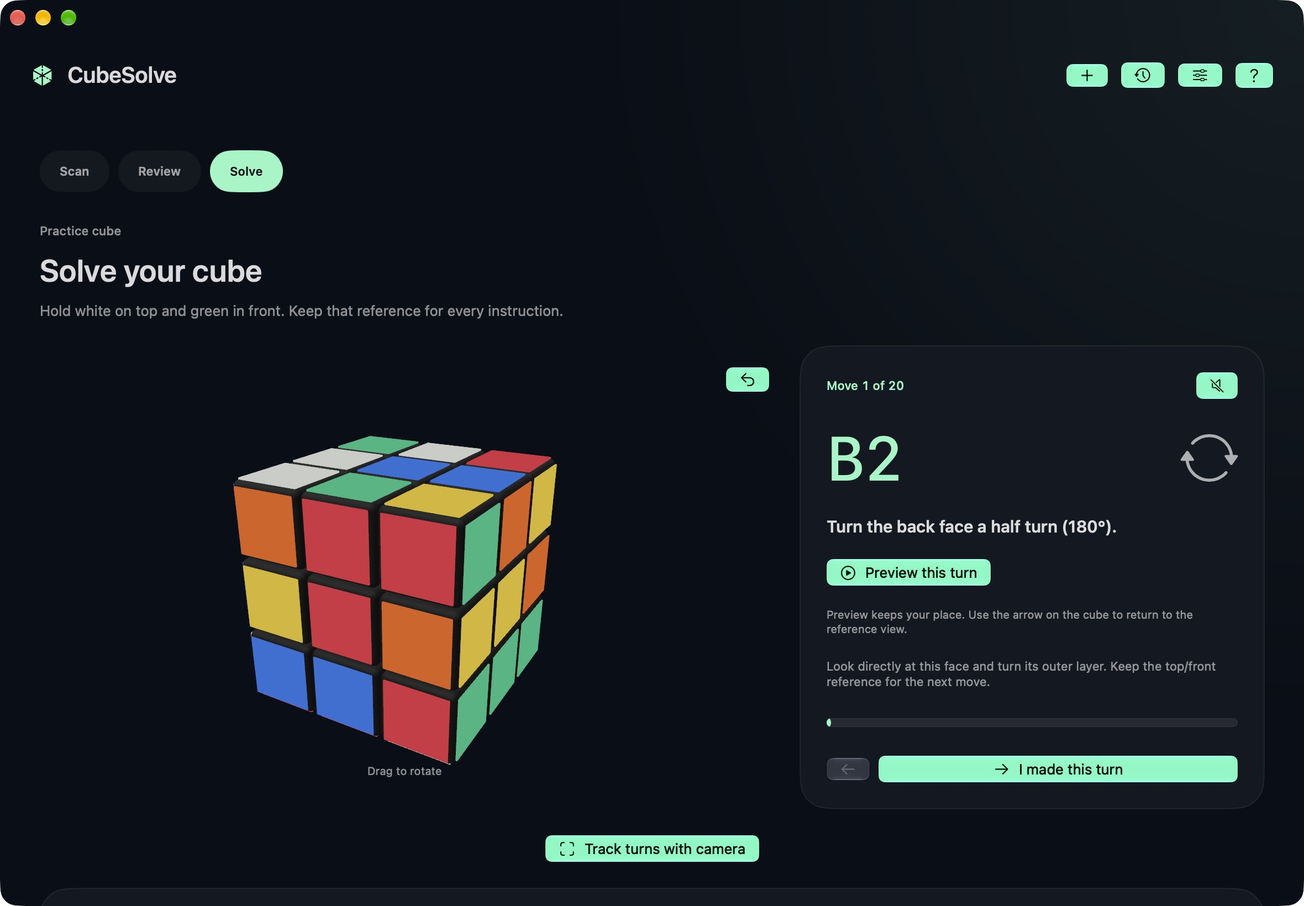
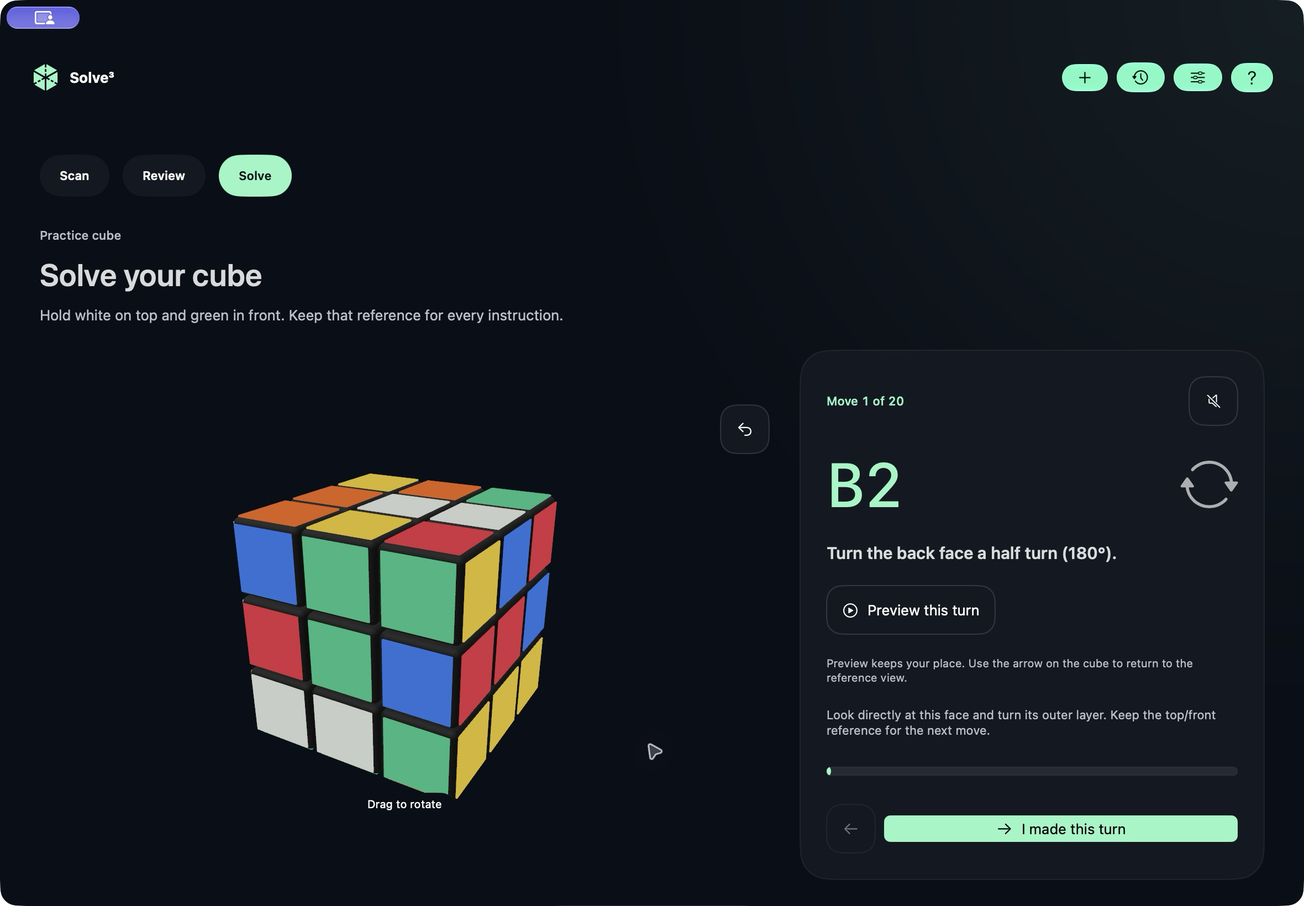
Polish Solve³ branding and replace release screenshots

diff --git a/index.html b/index.html
@@ -1,1 +1,1 @@
-<!doctype html><html lang="en"><head><meta charset="utf-8"><meta name="viewport" content="width=device-width,initial-scale=1"><title>Solve³</title><meta name="description" content="Scan six faces. Review your colors. Follow one clear turn at a time. Native cube guidance for iPhone, iPad and Mac."><link rel="stylesheet" href="marketing.css?v=2"></head><body><header><a class="brand" href="index.html"><svg aria-hidden="true" viewBox="0 0 40 42"><path d="M20 1 38 11v20L20 41 2 31V11Z" fill="#92f7c5"/><path d="m2 11 18 10 18-10M20 21v20M20 1v20M2 31l18-10 18 10" fill="none" stroke="#0a121b" stroke-width="2"/></svg><span>Solve³ <small>by FreeRange Labs</small></span></a><nav aria-label="Main"><a href="#how">How it works</a><a href="support.html">Support</a><a href="privacy.html">Privacy</a></nav></header><main><section class="hero"><div class="hero-copy"><p class="eyebrow">For the cube in your hands.</p><h1>One clear turn.<br><em>Then the next.</em></h1><p class="intro">A scrambled cube doesn’t need to stay a mystery. Scan six faces, check the colors, and follow a clear 3D guide at your own pace.</p><a class="button" href="#how">See how it works <span aria-hidden="true">↘</span></a><p class="availability">iPhone, iPad &amp; Mac · $4.99 USD one-time purchase at launch · App Store release in preparation</p><div class="promise"><span>On-device processing</span><span>No ads or account</span><span>Your pace</span></div></div><div class="hero-art"><div class="orbit orbit-one"></div><div class="orbit orbit-two"></div><div class="notation" aria-hidden="true">R2 <span>U′</span> F</div><figure class="phone"><img src="assets/iphone-guide.png" alt="Actual iPhone app: a 3D cube, move R2, plain-language half-turn instruction and the I made this turn control." width="680" height="1500"><figcaption>Actual app interface</figcaption></figure><div class="turn-chip"><span class="turn-icon" aria-hidden="true">↻</span><div><strong>Preview the layer.</strong><small>Keep your place in the solve.</small></div></div></div></section><section id="how" class="workflow"><div class="section-heading"><p class="eyebrow">A simple rhythm</p><h2>From scrambled<br>to understandable.</h2><p>Every step gives you a chance to check, correct and continue.</p></div><div class="steps"><article><span class="step">01</span><div class="scan-graphic" aria-hidden="true"><i></i><div class="tiles"><b></b><b></b><b></b><b></b><b></b><b></b><b></b><b></b><b></b></div></div><h3>Scan six faces.</h3><p>Automatic face detection finds the corners. Capture each face with the orientation labels as your guide.</p></article><article><span class="step">02</span><div class="swatches" aria-hidden="true"><b></b><b></b><b></b><b></b><b></b><b></b></div><h3>Make the colors yours.</h3><p>Check the suggested stickers. Personal calibration learns your six center colors; manual corrections keep you in control.</p></article><article><span class="step">03</span><div class="move-graphic" aria-hidden="true"><strong>R2</strong><span>↻</span></div><h3>Follow one turn.</h3><p>Preview the moving layer, read the instruction, then advance after making the physical turn. Backtracking is always available.</p></article></div></section><section class="desktop"><div><p class="eyebrow">Room to see the whole solve</p><h2>Just as thoughtful<br>on your Mac.</h2><p>A native desktop layout pairs the cube with its next instruction. Drag to inspect, preview a layer, and keep the sequence close.</p><p class="fine">Saved solutions stay locally on each device. Cross-device history sync is not included.</p></div><figure class="mac"><div class="mac-display"><img src="assets/mac-guide.png" alt="Actual Mac app with a large practice cube beside the B2 instruction and Preview this turn button." width="2360" height="1640"></div><div class="mac-stand"></div><figcaption>Native macOS app · practice guide</figcaption></figure></section><section class="details"><div class="calibration"><img src="assets/calibration.png" alt="iPhone calibration settings identify the white center as missing and provide separate recapture controls." width="680" height="1500"></div><div><p class="eyebrow">A little variation is normal</p><h2>Your cube.<br>Your colors.</h2><p>Different cube palettes and lighting can change how stickers look. Capture the six center colors to calibrate, and recapture a missing sample without replacing your current solution.</p><ul><li>Editable sticker grids</li><li>Optional spoken instructions</li><li>Local solution history and text sharing</li><li>Complete orientation, notation and recovery help</li></ul><a class="text-link" href="support.html">Explore the support guide →</a></div></section><section class="closing"><p class="eyebrow">Clear expectations. Better solves.</p><h2>Built for six-color 3×3 cubes.</h2><p>One photo cannot reveal hidden stickers: capture all six faces. Glare and difficult lighting may need a correction or retake. Solutions are replay-verified, not guaranteed shortest. The virtual cube shows a predicted state; it is not an AR overlay anchored to your physical cube.</p><a class="button" href="mailto:FreeRangeLabs@drumnbus.com">Contact FreeRange Labs</a></section></main><footer><div><strong>Solve³</strong><p>© 2026 FreeRange Labs</p></div><nav aria-label="Footer"><a href="support.html">Support</a><a href="privacy.html">Privacy policy</a><a href="mailto:FreeRangeLabs@drumnbus.com">Email us</a></nav><p class="legal">Independent product. Not affiliated with or endorsed by the makers of Rubik’s or GAN cubes. Screenshots show the actual app; device presentations are illustrative.</p></footer></body></html>
+<!doctype html><html lang="en"><head><meta charset="utf-8"><meta name="viewport" content="width=device-width,initial-scale=1"><title>Solve³</title><meta name="description" content="Scan six faces. Review your colors. Follow one clear turn at a time. Native cube guidance for iPhone, iPad and Mac."><link rel="stylesheet" href="marketing.css?v=6"><link rel="icon" href="assets/app-icon.png"><link rel="apple-touch-icon" href="assets/app-icon.png"></head><body><header><a class="brand" href="index.html"><img class="brand-icon" src="assets/app-icon.png" width="40" height="40" alt=""><span>Solve³ <small>by FreeRange Labs</small></span></a><nav aria-label="Main"><a href="#how">How it works</a><a href="support.html">Support</a><a href="privacy.html">Privacy</a></nav></header><main><section class="hero"><div class="hero-copy"><p class="eyebrow">For the cube in your hands.</p><h1>One clear turn.<br><em>Then the next.</em></h1><p class="intro">A scrambled cube doesn’t need to stay a mystery. Scan six faces, check the colors, and follow a clear 3D guide at your own pace.</p><a class="button" href="#how">See how it works <span aria-hidden="true">↘</span></a><p class="availability">iPhone, iPad &amp; Mac · $4.99 USD one-time purchase at launch · App Store release in preparation</p><div class="promise"><span>On-device processing</span><span>No ads or account</span><span>Your pace</span></div></div><div class="hero-art"><div class="orbit orbit-one"></div><div class="orbit orbit-two"></div><div class="notation" aria-hidden="true">R2 <span>U′</span> F</div><figure class="phone"><img src="assets/iphone-guide.png?v=6" alt="Actual iPhone app: a 3D practice cube, plain-language turn instruction and the I made this turn control." width="1320" height="2868"><figcaption>Actual app interface</figcaption></figure><div class="turn-chip"><span class="turn-icon" aria-hidden="true">↻</span><div><strong>Preview the layer.</strong><small>Keep your place in the solve.</small></div></div></div></section><section id="how" class="workflow"><div class="section-heading"><p class="eyebrow">A simple rhythm</p><h2>From scrambled<br>to understandable.</h2><p>Every step gives you a chance to check, correct and continue.</p></div><div class="steps"><article><span class="step">01</span><div class="scan-graphic" aria-hidden="true"><i></i><div class="tiles"><b></b><b></b><b></b><b></b><b></b><b></b><b></b><b></b><b></b></div></div><h3>Scan six faces.</h3><p>Automatic face detection finds the corners. Capture each face with the orientation labels as your guide.</p></article><article><span class="step">02</span><div class="swatches" aria-hidden="true"><b></b><b></b><b></b><b></b><b></b><b></b></div><h3>Make the colors yours.</h3><p>Check the suggested stickers. Personal calibration learns your six center colors; manual corrections keep you in control.</p></article><article><span class="step">03</span><div class="move-graphic" aria-hidden="true"><strong>R2</strong><span>↻</span></div><h3>Follow one turn.</h3><p>Preview the moving layer, read the instruction, then advance after making the physical turn. Backtracking is always available.</p></article></div></section><section class="desktop"><div><p class="eyebrow">Room to see the whole solve</p><h2>Just as thoughtful<br>on your Mac.</h2><p>A native desktop layout pairs the cube with its next instruction. Drag to inspect, preview a layer, and keep the sequence close.</p><p class="fine">Saved solutions stay locally on each device. Cross-device history sync is not included.</p></div><figure class="mac"><div class="mac-display"><img src="assets/mac-guide.png?v=6" alt="Actual Mac app with a large practice cube beside the B2 instruction and Preview this turn button." width="2360" height="1640"></div><div class="mac-stand"></div><figcaption>Native macOS app · practice guide</figcaption></figure></section><section class="details"><div class="calibration"><img src="assets/calibration.png?v=6" alt="iPhone calibration settings provide an individual capture control for each of the six center colors." width="1320" height="2868"></div><div><p class="eyebrow">A little variation is normal</p><h2>Your cube.<br>Your colors.</h2><p>Different cube palettes and lighting can change how stickers look. Capture the six center colors to calibrate, and recapture a missing sample without replacing your current solution.</p><ul><li>Editable sticker grids</li><li>Optional spoken instructions</li><li>Local solution history and text sharing</li><li>Complete orientation, notation and recovery help</li></ul><a class="text-link" href="support.html">Explore the support guide →</a></div></section><section class="closing"><p class="eyebrow">Clear expectations. Better solves.</p><h2>Built for six-color 3×3 cubes.</h2><p>One photo cannot reveal hidden stickers: capture all six faces. Glare and difficult lighting may need a correction or retake. Solutions are replay-verified, not guaranteed shortest. The virtual cube shows a predicted state; it is not an AR overlay anchored to your physical cube.</p><a class="button" href="mailto:FreeRangeLabs@drumnbus.com">Contact FreeRange Labs</a></section></main><footer><div><strong>Solve³</strong><p>© 2026 FreeRange Labs</p></div><nav aria-label="Footer"><a href="support.html">Support</a><a href="privacy.html">Privacy policy</a><a href="mailto:FreeRangeLabs@drumnbus.com">Email us</a></nav><p class="legal">Independent product. Not affiliated with or endorsed by the makers of Rubik’s or GAN cubes. Screenshots show the actual app; device presentations are illustrative.</p></footer></body></html>

diff --git a/support.html b/support.html
@@ -1,1 +1,1 @@
-<!doctype html><html lang="en"><head><meta charset="utf-8"><meta name="viewport" content="width=device-width,initial-scale=1"><title>Support · Solve³</title><link rel="stylesheet" href="style.css"><meta name="description" content="Solve³: on-device 3×3 cube guidance, support and privacy."></head><body><main><nav aria-label="Main"><a href="index.html">Solve³</a><a href="support.html">Support</a><a href="privacy.html">Privacy</a></nav><h1>Every turn, explained.</h1><p>For support, contact FreeRangeLabs@drumnbus.com.</p><h2>Start a solve</h2><p>Use a six-color 3×3 cube. Open Scan and capture one face at a time. Follow the face-above label to keep the grid upright. Turn the whole cube between captures without twisting any layer. One picture cannot reveal all 54 stickers. Review every suggested sticker and confirm all six faces, then solve.</p><h2>Camera or colors need help</h2><p>Use even light without flash, keep fingers off stickers and show a complete face. Automatic corners can be adjusted manually when needed. Confirm the actual center color if the model misreads it. Rotate the grid only when the photo’s orientation is wrong. Camera access can be enabled in iPhone Settings or Mac System Settings → Privacy &amp; Security → Camera. Imported photos and manual entry work without camera permission.</p><p>Cube settings → Color calibration lists all six center samples. Capture a named missing center without changing the current cube or guide. Calibration activates after all six usable samples exist. Reset or recapture when changing cubes or lighting. A dark or uneven patch requires a retake. Previously missing samples cannot be recreated from sticker labels; take a fresh photo.</p><h2>Follow the guide</h2><p>Keep the selected top/front reference. A plain letter is clockwise as viewed directly at that face; an apostrophe reverses it; 2 means a half turn. Preview shows the moving layer without advancing. Make the physical move, then select I made this turn. Use Back only after undoing the physical turn when necessary. Dragging the virtual cube does not move your actual cube or advance the guide. Reset the reference view with the arrow on the cube.</p><p>The virtual cube is a predicted state, not a physical AR overlay. Camera turn tracking requires stable, upright before/after views and can decline to confirm ambiguous faces. If it waits, improve lighting and calibration or advance manually after checking the turn. If you lose track, scan the cube again as it is now.</p><h2>Invalid cube state</h2><p>Check color counts, orientation, duplicate pieces and all six confirmed faces. If scans are correct, a twisted corner, flipped edge or swapped pieces can make a cube physically unreachable. The solver does not silently change your colors.</p><h2>Saved work and limits</h2><p>History and calibration stay on each device. Raw photos are not retained. Up to 30 solutions are stored locally. No iCloud history sync is included. Supported puzzles are six-color 3×3 cubes; other sizes, mirror cubes and picture-center orientation are not supported. Solutions are verified but not guaranteed shortest.</p><h2>Contact checklist</h2><p>Provide app version, device and OS, workflow step, lighting and whether you calibrated. Describe what you expected and what occurred. Only attach cube-only pictures you choose to share; avoid faces, addresses or other personal information. Contact FreeRangeLabs@drumnbus.com.</p><footer>© 2026 FreeRange Labs · <a href="mailto:FreeRangeLabs@drumnbus.com">FreeRangeLabs@drumnbus.com</a><p>Independent product. Not affiliated with or endorsed by the makers of Rubik’s or GAN cubes.</p></footer></main></body></html>
+<!doctype html><html lang="en"><head><meta charset="utf-8"><meta name="viewport" content="width=device-width,initial-scale=1"><title>Support · Solve³</title><link rel="stylesheet" href="style.css"><meta name="description" content="Solve³: on-device 3×3 cube guidance, support and privacy."><link rel="icon" href="assets/app-icon.png"><link rel="apple-touch-icon" href="assets/app-icon.png"></head><body><main><nav aria-label="Main"><a href="index.html">Solve³</a><a href="support.html">Support</a><a href="privacy.html">Privacy</a></nav><h1>Every turn, explained.</h1><p>For support, contact FreeRangeLabs@drumnbus.com.</p><h2>Start a solve</h2><p>Use a six-color 3×3 cube. Open Scan and capture one face at a time. Follow the face-above label to keep the grid upright. Turn the whole cube between captures without twisting any layer. One picture cannot reveal all 54 stickers. Review every suggested sticker and confirm all six faces, then solve.</p><h2>Camera or colors need help</h2><p>Use even light without flash, keep fingers off stickers and show a complete face. Automatic corners can be adjusted manually when needed. Confirm the actual center color if the model misreads it. Rotate the grid only when the photo’s orientation is wrong. Camera access can be enabled in iPhone Settings or Mac System Settings → Privacy &amp; Security → Camera. Imported photos and manual entry work without camera permission.</p><p>Cube settings → Color calibration lists all six center samples. Capture a named missing center without changing the current cube or guide. Calibration activates after all six usable samples exist. Reset or recapture when changing cubes or lighting. A dark or uneven patch requires a retake. Previously missing samples cannot be recreated from sticker labels; take a fresh photo.</p><h2>Follow the guide</h2><p>Keep the selected top/front reference. A plain letter is clockwise as viewed directly at that face; an apostrophe reverses it; 2 means a half turn. Preview shows the moving layer without advancing. Make the physical move, then select I made this turn. Use Back only after undoing the physical turn when necessary. Dragging the virtual cube does not move your actual cube or advance the guide. Reset the reference view with the arrow on the cube.</p><p>The virtual cube is a predicted state, not a physical AR overlay. Camera turn tracking requires stable, upright before/after views and can decline to confirm ambiguous faces. If it waits, improve lighting and calibration or advance manually after checking the turn. If you lose track, scan the cube again as it is now.</p><h2>Invalid cube state</h2><p>Check color counts, orientation, duplicate pieces and all six confirmed faces. If scans are correct, a twisted corner, flipped edge or swapped pieces can make a cube physically unreachable. The solver does not silently change your colors.</p><h2>Saved work and limits</h2><p>History and calibration stay on each device. Raw photos are not retained. Up to 30 solutions are stored locally. No iCloud history sync is included. Supported puzzles are six-color 3×3 cubes; other sizes, mirror cubes and picture-center orientation are not supported. Solutions are verified but not guaranteed shortest.</p><h2>Contact checklist</h2><p>Provide app version, device and OS, workflow step, lighting and whether you calibrated. Describe what you expected and what occurred. Only attach cube-only pictures you choose to share; avoid faces, addresses or other personal information. Contact FreeRangeLabs@drumnbus.com.</p><footer>© 2026 FreeRange Labs · <a href="mailto:FreeRangeLabs@drumnbus.com">FreeRangeLabs@drumnbus.com</a><p>Independent product. Not affiliated with or endorsed by the makers of Rubik’s or GAN cubes.</p></footer></main></body></html>

diff --git a/marketing.css b/marketing.css
@@ -1,1 +1,2 @@
 *{box-sizing:border-box}html{scroll-behavior:smooth;scroll-padding-top:30px}body{margin:0;background:#09101a;color:#f2f7f4;font:17px/1.65 -apple-system,BlinkMacSystemFont,"Segoe UI",sans-serif}a{color:inherit}header,main,footer{max-width:1280px;margin:auto}header{padding:30px 40px;display:flex;justify-content:space-between;align-items:center;gap:24px}.brand{display:flex;align-items:center;gap:12px;text-decoration:none;font-weight:650;font-size:21px;line-height:1.2}.brand svg{width:38px;height:40px}.brand small{display:block;font-size:12px;color:#a6b5b8;margin-top:4px;font-weight:400}nav{display:flex;gap:30px;flex-wrap:wrap}nav a{text-decoration:none;font-size:15px;color:#c0cdcf}nav a:hover,.text-link:hover{color:#92f7c5}a:focus-visible{outline:3px solid #92f7c5;outline-offset:7px}.hero{display:grid;grid-template-columns:1.15fr 1fr;gap:20px;align-items:center;padding:70px 40px 100px;min-height:850px}.eyebrow{color:#92f7c5;font-size:15px;font-weight:550;margin:0 0 22px}h1{font-size:clamp(52px,6.3vw,80px);letter-spacing:-.05em;line-height:1.08;margin:0 0 30px;font-weight:620}h1 em{font-style:normal;color:#92f7c5}h2{font-size:clamp(36px,4.4vw,56px);line-height:1.12;letter-spacing:-.04em;font-weight:580;margin:0 0 24px}h3{font-size:25px;font-weight:550;letter-spacing:-.02em;margin:25px 0 10px}p{color:#aebec2}.intro{max-width:490px;font-size:20px;line-height:1.6}.button{display:inline-flex;align-items:center;gap:30px;background:#92f7c5;color:#09101a;padding:14px 22px;border-radius:12px;text-decoration:none;font-weight:600;margin-top:20px}.availability{font-size:13px;max-width:370px;margin-top:20px}.promise{display:flex;gap:18px;flex-wrap:wrap;font-size:12px;color:#b5c8c5;margin-top:40px}.promise span:before{content:"✓ ";color:#92f7c5}.hero-art{min-width:0;position:relative;min-height:720px;display:flex;align-items:center;justify-content:center}.phone{width:290px;position:relative;margin:0;transform:rotate(5deg);z-index:2;filter:drop-shadow(0 25px 50px #0008)}.phone img{display:block;width:100%;height:auto;border-radius:45px}.phone figcaption{font-size:11px;color:#8a9f9e;text-align:center;margin-top:18px}.orbit{position:absolute;border:1px solid #92f7c522;border-radius:50%;width:440px;height:440px;transform:none}.orbit-two{width:min(560px,100%);height:auto;aspect-ratio:1;border-style:dashed;border-color:#92f7c512}.notation{position:absolute;top:40px;right:20px;font-size:55px;color:#92f7c512;font-family:ui-monospace,monospace;transform:rotate(-10deg)}.notation span{color:#92f7c536}.turn-chip{position:absolute;z-index:3;bottom:105px;left:-10px;background:#17232deF;border:1px solid #314338;box-shadow:0 20px 50px #0006;border-radius:16px;padding:16px 20px;display:flex;gap:15px;align-items:center}.turn-chip strong{font-weight:550;font-size:15px}.turn-chip small{display:block;color:#9db1b4;font-size:12px}.turn-icon{font-size:38px;color:#92f7c5;line-height:1}.workflow{padding:85px 40px;border-top:1px solid #23313b}.section-heading{display:grid;grid-template-columns:1fr 1fr;align-items:end;gap:10px 50px}.section-heading .eyebrow{grid-column:1/-1}.section-heading p:last-child{max-width:330px;margin-bottom:28px}.steps{display:grid;grid-template-columns:repeat(3,1fr);gap:22px;margin-top:45px}.steps article{background:#101a24;border:1px solid #23313c;border-radius:22px;padding:30px;position:relative}.step{color:#6f868c;font:14px ui-monospace,monospace}.steps article p{font-size:16px;margin:0}.scan-graphic,.swatches,.move-graphic{height:125px;margin-top:18px;display:flex;align-items:center;justify-content:center}.tiles{display:grid;grid-template-columns:repeat(3,28px);gap:4px;transform:rotate(-8deg)}.tiles b{height:28px;border-radius:4px;background:#2ecb92}.tiles b:nth-child(3n){background:#fdcf3d}.tiles b:nth-child(4){background:#eb4e61}.scan-graphic{position:relative}.scan-graphic i{width:126px;height:112px;border:2px solid #92f7c5;border-radius:20px;position:absolute}.swatches{display:grid;grid-template-columns:repeat(3,42px);gap:10px;align-content:center}.swatches b{height:42px;border-radius:12px;background:#eef3ec}.swatches b:nth-child(2){background:#e84b62}.swatches b:nth-child(3){background:#2ecb92}.swatches b:nth-child(4){background:#f7cf3e}.swatches b:nth-child(5){background:#ed843f}.swatches b:nth-child(6){background:#3b78cf}.move-graphic{gap:25px;color:#92f7c5}.move-graphic strong{font:64px ui-monospace,monospace}.move-graphic span{font-size:65px}.desktop{display:grid;grid-template-columns:.85fr 1.3fr;gap:45px;align-items:center;padding:100px 40px}.desktop p,.details p{max-width:460px}.fine{font-size:14px}.mac{margin:0}.mac-display{border:9px solid #283138;border-radius:16px;background:#111;box-shadow:0 30px 60px #0006}.mac img{display:block;width:100%;height:auto;border-radius:7px}.mac-stand{width:140px;height:55px;margin:auto;background:linear-gradient(#303b43,#1a252d);clip-path:polygon(28% 0,72% 0,80% 80%,100% 88%,100% 100%,0 100%,0 88%,20% 80%)}figcaption{font-size:12px;text-align:center;color:#92a6aa;margin-top:12px}.details{display:grid;grid-template-columns:1fr 1fr;align-items:center;gap:60px;padding:80px 40px;background:radial-gradient(ellipse at 22% 50%,#92f7c514,transparent 50%)}.calibration{display:flex;justify-content:center}.calibration img{width:270px;height:auto;border-radius:40px;box-shadow:0 30px 60px #0006;transform:rotate(-4deg)}ul{padding-left:20px;color:#bacacb}li{margin:8px 0}.text-link{color:#92f7c5;text-underline-offset:5px}.closing{max-width:780px;text-align:center;margin:80px auto;padding:60px 30px;border-top:1px solid #26343d}.closing p{font-size:16px}.closing .eyebrow{color:#92f7c5}footer{padding:40px;border-top:1px solid #23313b;display:flex;justify-content:space-between;gap:30px;flex-wrap:wrap}footer p{font-size:13px;margin:5px 0}.legal{max-width:840px;color:#81989e}@media(max-width:900px){.hero{grid-template-columns:1fr 1fr;padding-top:45px}.hero-art{min-height:620px}.phone{width:245px}.orbit{width:310px;height:310px}.orbit-two{width:370px;height:370px}.turn-chip{left:-35px;bottom:55px}.desktop{grid-template-columns:1fr}.desktop div:first-child{max-width:600px}.steps article{padding:22px}.steps{gap:14px}}@media(max-width:650px){header{padding:22px;align-items:flex-start}header nav{gap:14px;max-width:125px;justify-content:flex-end}header nav a{font-size:13px}.hero{grid-template-columns:1fr;padding:40px 24px 50px;gap:40px;min-height:auto}h1{font-size:54px}.intro{font-size:18px}.hero-art{min-height:600px}.phone{width:250px}.turn-chip{left:10px;bottom:55px}.notation{right:10px}.section-heading{display:block}.workflow,.desktop,.details{padding:65px 24px}.steps{grid-template-columns:1fr}.steps article{padding:28px}.desktop{gap:35px}.details{grid-template-columns:1fr;gap:50px}.calibration{order:2}.closing{margin:40px auto;padding:40px 24px}footer{padding:30px 24px}footer nav{gap:20px}h2{font-size:40px}.hero-art{overflow:hidden}.mac-display{border-width:5px}}@media(prefers-reduced-motion:reduce){html{scroll-behavior:auto}}
+.brand-icon{width:40px;height:40px;border-radius:10px;flex-shrink:0}

diff --git a/privacy.html b/privacy.html
@@ -1,1 +1,1 @@
-<!doctype html><html lang="en"><head><meta charset="utf-8"><meta name="viewport" content="width=device-width,initial-scale=1"><title>Privacy policy · Solve³</title><link rel="stylesheet" href="style.css"><meta name="description" content="Solve³: on-device 3×3 cube guidance, support and privacy."></head><body><main><nav aria-label="Main"><a href="index.html">Solve³</a><a href="support.html">Support</a><a href="privacy.html">Privacy</a></nav><h1>Privacy policy</h1><p>Effective 9 October 2026. Publisher: FreeRange Labs.</p><p>Solve³ processes cube photos, camera frames, color predictions and solving on your device. We do not run a service that receives these images or cube states. The app has no account, advertising, tracking or analytics SDK.</p><p>Raw camera frames and selected photos are used temporarily for recognition and are not saved by the app. The app saves your current sticker grid, orientation scheme, progress, optional center RGB calibration and up to 30 solution records locally. History uses SwiftData with a JSON recovery copy. macOS and iOS histories are separate; cloud synchronization is disabled.</p><p>Camera access is used only for face scanning or the optional camera turn guide. Close the relevant sheet to stop capture. Photo import uses the system picker or a user-selected file. You may deny camera access and use imported photos or manual color entry. Manage camera permission through Apple’s system settings.</p><p>Sharing a solution sends the text to the destination you choose through the system share interface. The recipient’s privacy practices apply. If you contact support, we receive the information you voluntarily send; avoid including personal information in cube photos or logs. Purchases and App Store services are operated by Apple under Apple’s policies.</p><p>You can reset calibration in Cube settings, replace the current cube with New Cube, and clear saved solutions in History. These actions affect app records; system backups and exported copies are governed by your device settings and chosen recipients. Uninstalling removes the app’s local container according to Apple’s platform behavior.</p><p>The app does not intentionally collect personal information from children or other users. If future versions add data collection or services, this policy and App Store disclosures must be updated before release.</p><p>Questions or requests: FreeRangeLabs@drumnbus.com.</p><footer>© 2026 FreeRange Labs · <a href="mailto:FreeRangeLabs@drumnbus.com">FreeRangeLabs@drumnbus.com</a><p>Independent product. Not affiliated with or endorsed by the makers of Rubik’s or GAN cubes.</p></footer></main></body></html>
+<!doctype html><html lang="en"><head><meta charset="utf-8"><meta name="viewport" content="width=device-width,initial-scale=1"><title>Privacy policy · Solve³</title><link rel="stylesheet" href="style.css"><meta name="description" content="Solve³: on-device 3×3 cube guidance, support and privacy."><link rel="icon" href="assets/app-icon.png"><link rel="apple-touch-icon" href="assets/app-icon.png"></head><body><main><nav aria-label="Main"><a href="index.html">Solve³</a><a href="support.html">Support</a><a href="privacy.html">Privacy</a></nav><h1>Privacy policy</h1><p>Effective 9 October 2026. Publisher: FreeRange Labs.</p><p>Solve³ processes cube photos, camera frames, color predictions and solving on your device. We do not run a service that receives these images or cube states. The app has no account, advertising, tracking or analytics SDK.</p><p>Raw camera frames and selected photos are used temporarily for recognition and are not saved by the app. The app saves your current sticker grid, orientation scheme, progress, optional center RGB calibration and up to 30 solution records locally. History uses SwiftData with a JSON recovery copy. macOS and iOS histories are separate; cloud synchronization is disabled.</p><p>Camera access is used only for face scanning or the optional camera turn guide. Close the relevant sheet to stop capture. Photo import uses the system picker or a user-selected file. You may deny camera access and use imported photos or manual color entry. Manage camera permission through Apple’s system settings.</p><p>Sharing a solution sends the text to the destination you choose through the system share interface. The recipient’s privacy practices apply. If you contact support, we receive the information you voluntarily send; avoid including personal information in cube photos or logs. Purchases and App Store services are operated by Apple under Apple’s policies.</p><p>You can reset calibration in Cube settings, replace the current cube with New Cube, and clear saved solutions in History. These actions affect app records; system backups and exported copies are governed by your device settings and chosen recipients. Uninstalling removes the app’s local container according to Apple’s platform behavior.</p><p>The app does not intentionally collect personal information from children or other users. If future versions add data collection or services, this policy and App Store disclosures must be updated before release.</p><p>Questions or requests: FreeRangeLabs@drumnbus.com.</p><footer>© 2026 FreeRange Labs · <a href="mailto:FreeRangeLabs@drumnbus.com">FreeRangeLabs@drumnbus.com</a><p>Independent product. Not affiliated with or endorsed by the makers of Rubik’s or GAN cubes.</p></footer></main></body></html>
